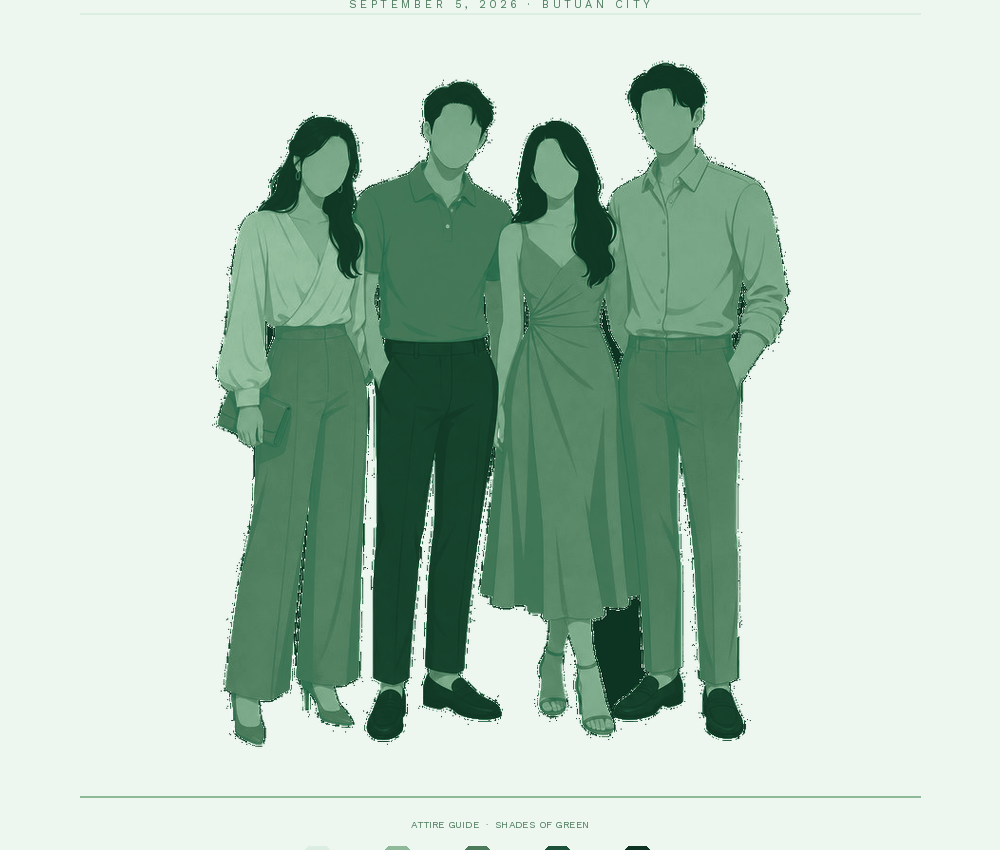
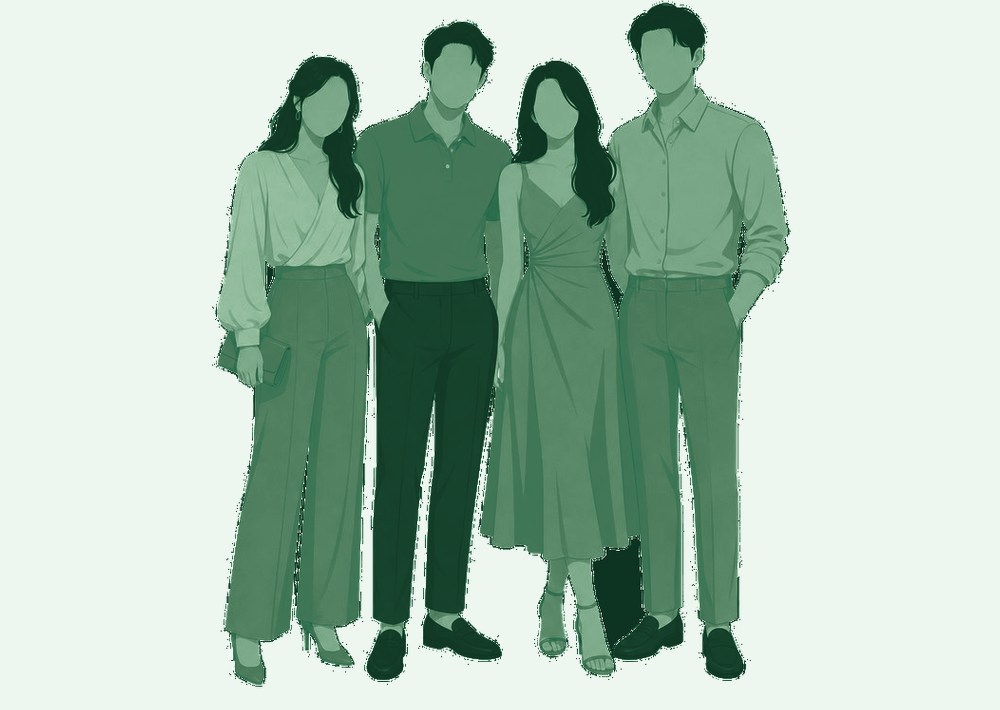
Add files via upload

diff --git a/invitation.html b/invitation.html
@@ -107,6 +107,11 @@
     .reveal.visible { opacity:1; transform:none; }
     /* Ensure page is never stuck blank — fallback after 1s */
     body.content-ready .reveal { opacity:1 !important; transform:none !important; }
+    @keyframes celebFloat {
+      0%   { opacity:1; transform:translate(0,0) scale(1) rotate(0deg); }
+      60%  { opacity:0.9; }
+      100% { opacity:0; transform:translate(var(--dx),var(--dy)) scale(0.4) rotate(360deg); }
+    }
     .reveal-left { opacity:0; transform:translateX(-36px); transition:opacity 0.8s,transform 0.8s; }
     .reveal-right { opacity:0; transform:translateX(36px); transition:opacity 0.8s,transform 0.8s; }
     .reveal-scale { opacity:0; transform:scale(0.88); transition:opacity 0.7s,transform 0.7s; }
@@ -465,26 +470,26 @@
         <img src="/attire-guide.png" alt="Attire Guide Illustration" style="width:90%;max-width:380px;display:block;margin:0 auto;border-radius:12px;">
         <!-- Color swatches with names -->
         <div style="display:flex;flex-direction:column;align-items:center;gap:0.5rem;width:100%;">
-          <div style="display:flex;gap:0.6rem;align-items:flex-end;justify-content:center;flex-wrap:wrap;">
-            <div style="display:flex;flex-direction:column;align-items:center;gap:0.3rem;">
-              <div style="width:38px;height:38px;border-radius:8px;background:#dceee2;box-shadow:0 2px 8px rgba(0,0,0,0.1);"></div>
-              <span style="font-size:0.5rem;color:var(--text-mid);letter-spacing:0.06em;text-align:center;">Cream</span>
+          <div style="display:flex;gap:clamp(0.4rem,2vw,0.8rem);align-items:flex-end;justify-content:center;flex-wrap:wrap;">
+            <div style="display:flex;flex-direction:column;align-items:center;gap:0.4rem;">
+              <div style="width:clamp(40px,10vw,52px);height:clamp(40px,10vw,52px);border-radius:10px;background:#dceee2;box-shadow:0 2px 8px rgba(0,0,0,0.1);"></div>
+              <span style="font-size:clamp(0.5rem,1.8vw,0.62rem);color:var(--text-mid);letter-spacing:0.06em;text-align:center;">Cream</span>
             </div>
-            <div style="display:flex;flex-direction:column;align-items:center;gap:0.3rem;">
-              <div style="width:38px;height:38px;border-radius:8px;background:#8fba9a;box-shadow:0 2px 8px rgba(0,0,0,0.1);"></div>
-              <span style="font-size:0.5rem;color:var(--text-mid);letter-spacing:0.06em;text-align:center;">Sage</span>
+            <div style="display:flex;flex-direction:column;align-items:center;gap:0.4rem;">
+              <div style="width:clamp(40px,10vw,52px);height:clamp(40px,10vw,52px);border-radius:10px;background:#8fba9a;box-shadow:0 2px 8px rgba(0,0,0,0.1);"></div>
+              <span style="font-size:clamp(0.5rem,1.8vw,0.62rem);color:var(--text-mid);letter-spacing:0.06em;text-align:center;">Sage</span>
             </div>
-            <div style="display:flex;flex-direction:column;align-items:center;gap:0.3rem;">
-              <div style="width:38px;height:44px;border-radius:8px;background:#4a7a5a;box-shadow:0 2px 8px rgba(0,0,0,0.1);"></div>
-              <span style="font-size:0.5rem;color:var(--text-mid);letter-spacing:0.06em;text-align:center;">Forest</span>
+            <div style="display:flex;flex-direction:column;align-items:center;gap:0.4rem;">
+              <div style="width:clamp(40px,10vw,52px);height:clamp(40px,10vw,52px);border-radius:10px;background:#4a7a5a;box-shadow:0 2px 8px rgba(0,0,0,0.1);"></div>
+              <span style="font-size:clamp(0.5rem,1.8vw,0.62rem);color:var(--text-mid);letter-spacing:0.06em;text-align:center;">Forest</span>
             </div>
-            <div style="display:flex;flex-direction:column;align-items:center;gap:0.3rem;">
-              <div style="width:38px;height:50px;border-radius:8px;background:#1e5238;box-shadow:0 2px 8px rgba(0,0,0,0.1);"></div>
-              <span style="font-size:0.5rem;color:var(--text-mid);letter-spacing:0.06em;text-align:center;">Emerald</span>
+            <div style="display:flex;flex-direction:column;align-items:center;gap:0.4rem;">
+              <div style="width:clamp(40px,10vw,52px);height:clamp(40px,10vw,52px);border-radius:10px;background:#1e5238;box-shadow:0 2px 8px rgba(0,0,0,0.1);"></div>
+              <span style="font-size:clamp(0.5rem,1.8vw,0.62rem);color:var(--text-mid);letter-spacing:0.06em;text-align:center;">Emerald</span>
             </div>
-            <div style="display:flex;flex-direction:column;align-items:center;gap:0.3rem;">
-              <div style="width:38px;height:56px;border-radius:8px;background:#0d3322;box-shadow:0 2px 8px rgba(0,0,0,0.1);"></div>
-              <span style="font-size:0.5rem;color:var(--text-mid);letter-spacing:0.06em;text-align:center;">Hunter</span>
+            <div style="display:flex;flex-direction:column;align-items:center;gap:0.4rem;">
+              <div style="width:clamp(40px,10vw,52px);height:clamp(40px,10vw,52px);border-radius:10px;background:#0d3322;box-shadow:0 2px 8px rgba(0,0,0,0.1);"></div>
+              <span style="font-size:clamp(0.5rem,1.8vw,0.62rem);color:var(--text-mid);letter-spacing:0.06em;text-align:center;">Hunter</span>
             </div>
           </div>
           <p style="font-size:0.72rem;color:var(--text-mid);font-style:italic;margin-top:0.3rem;">Any shade of green is most welcome!</p>
@@ -761,7 +766,39 @@ function autoPlayMusic(){
   document.getElementById('musicIcon').className='fa-solid fa-pause';
   if(document.getElementById('musicBtn')) document.getElementById('musicBtn').classList.add('playing');
 }
-window.addEventListener('load', () => setTimeout(autoPlayMusic, 800));
+
+// ── CELEBRATION BURST on load ──
+const celebIcons = [
+  'fa-heart','fa-heart','fa-heart',
+  'fa-ring','fa-ring',
+  'fa-champagne-glasses',
+  'fa-dove',
+  'fa-star','fa-star',
+  'fa-music',
+  'fa-leaf','fa-leaf',
+  'fa-sparkles','fa-face-smile-beam'
+];
+const celebColors = ['#6aaa7a','#4a7a5a','#c8e6d0','#aad4bc','#fff','#d4edda','#f8e1e8','#ffd700'];
+function burstCelebration(){
+  for(let i=0;i<28;i++){
+    setTimeout(()=>{
+      const el=document.createElement('i');
+      const icon=celebIcons[Math.floor(Math.random()*celebIcons.length)];
+      el.className=`fa-solid ${icon}`;
+      const size=(1+Math.random()*1.8).toFixed(1);
+      const left=(10+Math.random()*80).toFixed(0);
+      const dur=(1.2+Math.random()*1.2).toFixed(1);
+      const dx=((Math.random()-0.5)*220).toFixed(0);
+      const dy=(-(Math.random()*260+80)).toFixed(0);
+      el.style.cssText=`position:fixed;left:${left}%;top:55%;font-size:${size}rem;color:${celebColors[Math.floor(Math.random()*celebColors.length)]};pointer-events:none;z-index:99999;filter:drop-shadow(0 2px 6px rgba(0,0,0,0.18));animation:celebFloat ${dur}s ease-out forwards;--dx:${dx}px;--dy:${dy}px;`;
+      document.body.appendChild(el);
+      setTimeout(()=>el.remove(),parseFloat(dur)*1000+200);
+    },i*55);
+  }
+}
+window.addEventListener('load', ()=>{
+  setTimeout(()=>{ burstCelebration(); autoPlayMusic(); }, 400);
+});
 
 // ── PARALLAX ──
 const parallaxSections=[